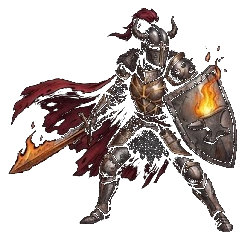
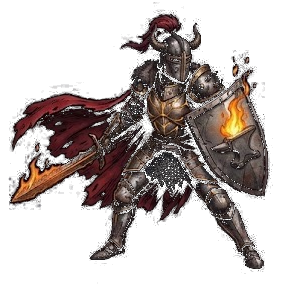
feat(art): integrate Ash Sculptor hit reaction, Obsidian Bastion shield burst, and high-res idle stance from new spritesheet

Changed region(s): [[0.0286, 0.0292, 0.9714, 0.9917]]

diff --git a/lib/features/combat_spatial/spatial_battle_screen.dart b/lib/features/combat_spatial/spatial_battle_screen.dart
@@ -5890,20 +5890,32 @@ class _SpatialBattleScreenState extends State<SpatialBattleScreen> {
                                     )
                                   : const ColorFilter.mode(Colors.transparent, BlendMode.dst)),
                           child: (isAttacking && (unit.isAshSculptor || unit.id == 'ash_sculptor' || unit.assetPath.toLowerCase().contains('ash_sculptor')))
-                              ? SpriteSheetAnimation(
-                                  assetPath: 'assets/animations/ash_sculptor_attack_sheet.png',
-                                  columns: 3,
-                                  rows: 2,
-                                  totalFrames: 6,
-                                  duration: const Duration(milliseconds: 950),
-                                  loop: false,
-                                  fit: BoxFit.contain,
-                                  fallback: Image.asset(
-                                    unit.assetPath,
-                                    fit: BoxFit.contain,
-                                    alignment: Alignment.bottomCenter,
-                                  ),
-                                )
+                              ? (_activeSkillName == 'Obsidian Bastion'
+                                  ? Image.asset(
+                                      'assets/images/ash_sculptor_shield_burst.png',
+                                      fit: BoxFit.contain,
+                                      alignment: Alignment.bottomCenter,
+                                    )
+                                  : SpriteSheetAnimation(
+                                      assetPath: 'assets/animations/ash_sculptor_attack_sheet.png',
+                                      columns: 3,
+                                      rows: 2,
+                                      totalFrames: 6,
+                                      duration: const Duration(milliseconds: 950),
+                                      loop: false,
+                                      fit: BoxFit.contain,
+                                      fallback: Image.asset(
+                                        unit.assetPath,
+                                        fit: BoxFit.contain,
+                                        alignment: Alignment.bottomCenter,
+                                      ),
+                                    ))
+                              : (isDamaged && (unit.isAshSculptor || unit.id == 'ash_sculptor' || unit.assetPath.toLowerCase().contains('ash_sculptor')))
+                                  ? Image.asset(
+                                      'assets/images/ash_sculptor_hit.png',
+                                      fit: BoxFit.contain,
+                                      alignment: Alignment.bottomCenter,
+                                    )
                               : (isAttacking && (unit.id == 'lady_valeria' || unit.assetPath.toLowerCase().contains('valeria')))
                                   ? SpriteSheetAnimation(
                                       assetPath: 'assets/animations/valeria_slash_sheet.png',
